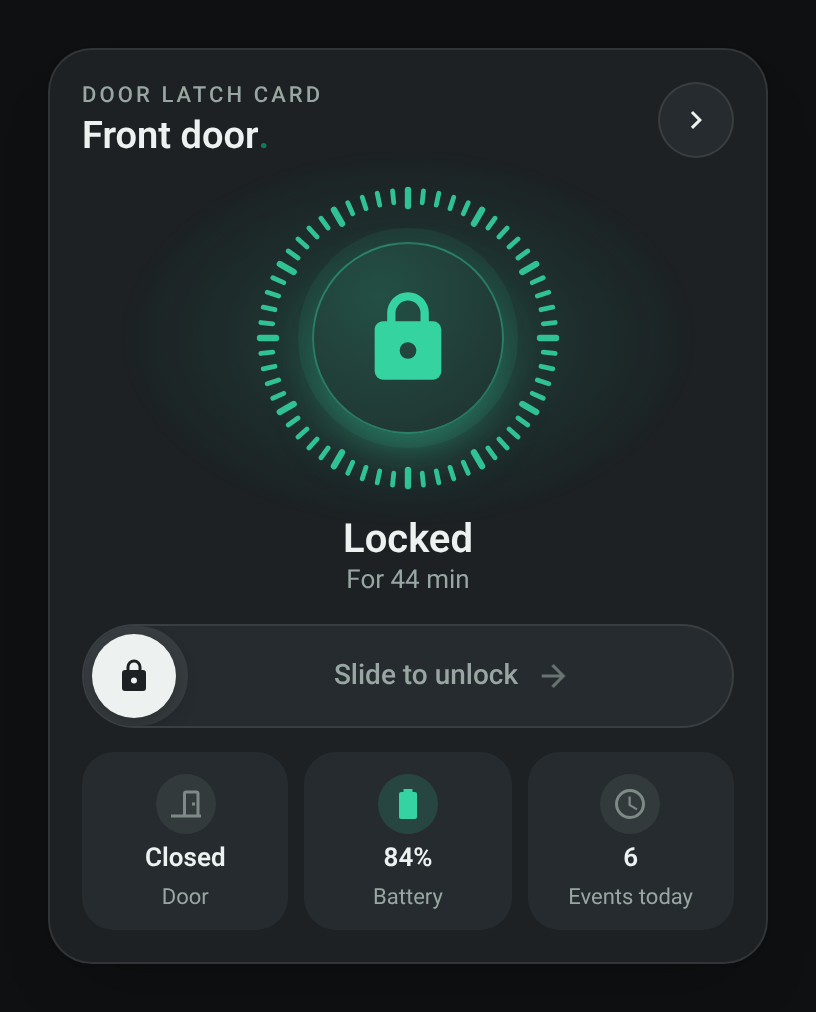
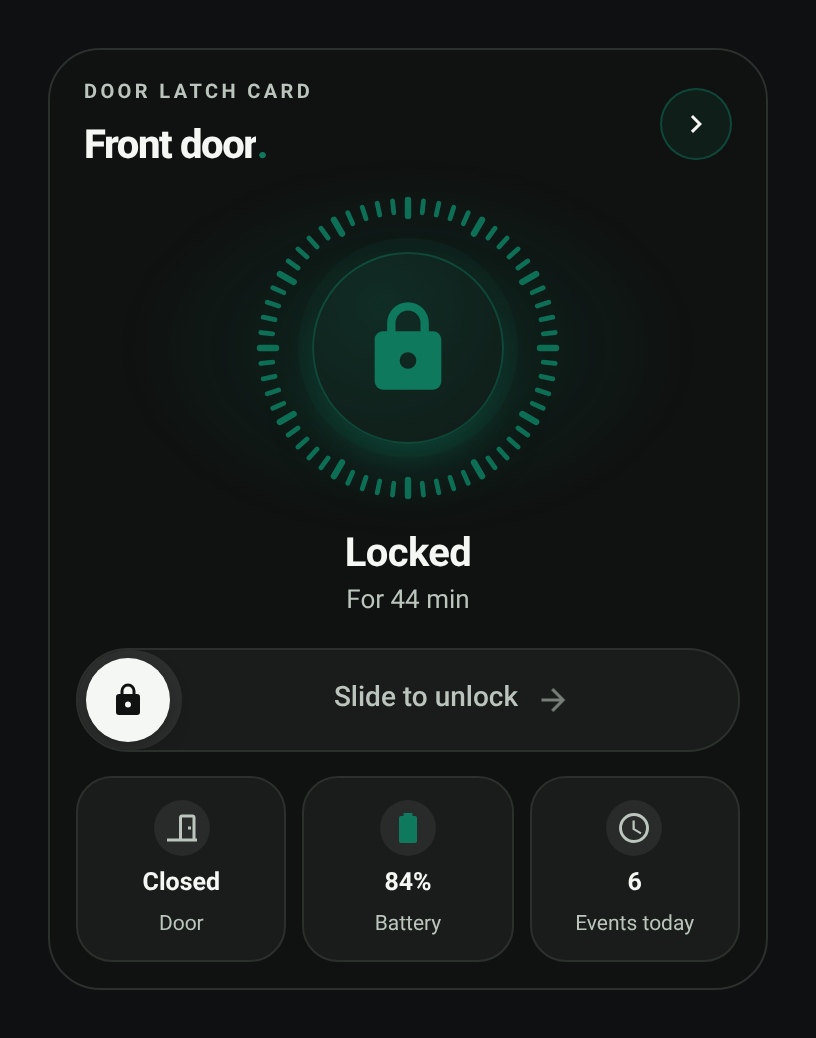
Align Door Latch Card styling with the Edera family

diff --git a/dist/door-latch-card.js b/dist/door-latch-card.js
@@ -548,26 +548,22 @@
   }
 
   /* ---------------------------------------------------------------- styles */
-  const CARD_CSS = `:host{display:block;--font:var(--ha-font-family-body,Roboto,system-ui,-apple-system,"Segoe UI",sans-serif)}
+  const CARD_CSS = `:host{display:block;--font:var(--ha-font-family-body,Roboto,Arial,sans-serif)}
 *{box-sizing:border-box}
 button{font:inherit}
-.hc{
-  --s:#ffffff;--s2:#f2f5f3;--t:#16211d;--t2:#5d6d66;--ln:rgba(22,33,29,.10);
-  --ok:#0f9f74;--wr:#d4900a;--er:#d23f3f;--nt:#8b9892;--dotc:#0a7156;
-  width:100%;max-width:400px;margin:0 auto;background:var(--s);color:var(--t);border:1px solid var(--ln);border-radius:22px;padding:16px;
-  font-family:var(--font);box-shadow:0 1px 2px rgba(0,0,0,.05),0 18px 36px -16px rgba(0,0,0,.28);min-width:0;
-}
-.hc.dark,.ov.dark,.sh.dark{--dotc:#0e795d;--s:#1d2124;--s2:#262b2f;--t:#edf2f0;--t2:#98a7a1;--ln:rgba(255,255,255,.09);--ok:#34d3a0;--wr:#f0b429;--er:#ff6b6b;--nt:#7d8a85}
-.ov.light,.sh.light{--dotc:#0a7156;--s:#ffffff;--s2:#f2f5f3;--t:#16211d;--t2:#5d6d66;--ln:rgba(22,33,29,.10);--ok:#0f9f74;--wr:#d4900a;--er:#d23f3f;--nt:#8b9892}
-.c-ok{--c:var(--ok)}.c-wr{--c:var(--wr)}.c-er{--c:var(--er)}.c-nt{--c:var(--nt)}
+.hc,.ov.light,.sh.light{--s:#fafbf9;--s2:#f0f2ef;--cir:#ffffff;--t:#18221c;--t2:#56675c;--ln:#e0e5df;
+  --ok:#0a7156;--okx:#0a7156;--wr:#d3bd63;--wrx:#5f4a10;--wrb:#f9f3de;--er:#b83a42;--erx:#ae4742;--nt:#858E89;--ntx:#56675c;--dotc:#0a7156;--btn:#0a7156}
+.hc.dark,.ov.dark,.sh.dark{--s:#101211;--s2:#191c1a;--cir:#282b29;--t:#f5f7f4;--t2:#bbc5bd;--ln:#2b302c;--ok:#0e795d;--okx:#0e795d;--wr:#816e31;--wrx:#f1d78b;--wrb:#302b1b;--er:#b83a42;--erx:#e85e64;--nt:#8B918E;--ntx:#bbc5bd;--dotc:#0e795d;--btn:#f5f7f4}
+.hc{width:100%;max-width:400px;margin:0 auto;background:var(--s);color:var(--t);border:1px solid var(--ln);border-radius:26px;padding:13px;font-family:var(--font);font-size:var(--ha-font-size-m,14px);line-height:1.4;min-width:0}
+.c-ok{--c:var(--ok);--cx:var(--okx)}.c-wr{--c:var(--wr);--cx:var(--wrx)}.c-er{--c:var(--er);--cx:var(--erx)}.c-nt{--c:var(--nt);--cx:var(--ntx)}
 .hc svg.i{width:18px;height:18px;fill:currentColor;stroke:none;flex:none;display:block}
-.hd{display:flex;align-items:center;justify-content:space-between;gap:12px}
+.hd{display:flex;align-items:center;justify-content:space-between;gap:12px;margin:2px 4px 0}
 .hd>div{min-width:0}
-.eb{font-size:11px;letter-spacing:.14em;text-transform:uppercase;color:var(--t2);font-weight:500}
-.ti{display:flex;align-items:baseline;gap:0;font-size:19px;font-weight:600;margin-top:2px;min-width:0}
+.eb{font-size:10px;letter-spacing:1.7px;text-transform:uppercase;color:var(--t2);font-weight:750;margin-bottom:7px;overflow-wrap:anywhere}
+.ti{display:flex;align-items:baseline;gap:0;font-size:20px;line-height:1.14;font-weight:800;letter-spacing:-.7px;min-width:0}
 .ti span.tx{overflow:hidden;text-overflow:ellipsis;white-space:nowrap}
 .dp{color:var(--dotc);flex:none;font-weight:inherit}
-.rb{width:38px;height:38px;border-radius:50%;border:1px solid var(--ln);background:var(--s2);color:var(--t);display:grid;place-items:center;cursor:pointer;flex:none;padding:0;-webkit-tap-highlight-color:transparent}
+.rb{width:36px;height:36px;border-radius:50%;border:1px solid color-mix(in srgb,var(--ok) 45%,transparent);background:color-mix(in srgb,var(--ok) 12%,transparent);color:var(--btn);display:grid;place-items:center;cursor:pointer;flex:none;padding:0;-webkit-tap-highlight-color:transparent}
 .hero{display:grid;place-items:center;margin:12px 0 4px;position:relative;isolation:isolate}
 .hero::before{content:"";position:absolute;left:50%;top:-17px;width:290px;height:190px;margin-left:-145px;z-index:-1;pointer-events:none;
   background:radial-gradient(closest-side,color-mix(in srgb,var(--c) 26%,transparent),color-mix(in srgb,var(--c) 8%,transparent) 62%,transparent);animation:breathe 4.8s ease-in-out infinite}
@@ -578,13 +574,14 @@ button{font:inherit}
 .dial>svg.tks{position:absolute;inset:0;width:156px;height:156px}
 .okr{position:absolute;left:0;top:0;width:156px;height:156px;transform:rotate(-90deg);pointer-events:none}
 .okr circle{fill:none;stroke:var(--c);stroke-width:3;stroke-linecap:round;stroke-dasharray:1;stroke-dashoffset:1;animation:ring 1.5s ease-out forwards}
-.okb{position:absolute;right:4px;top:4px;width:30px;height:30px;border-radius:50%;background:var(--c);color:var(--s);display:grid;place-items:center;opacity:0;
+.okb{position:absolute;right:4px;top:4px;width:30px;height:30px;border-radius:50%;background:var(--c);color:#fff;display:grid;place-items:center;opacity:0;
   box-shadow:0 6px 14px -4px color-mix(in srgb,var(--c) 70%,transparent);animation:badge 1.7s cubic-bezier(.3,1.5,.5,1) forwards;pointer-events:none}
 .okb svg.i{width:20px;height:20px}
 .fx-ok .knob{animation:pop .7s ease-out}
 .fx-err .knob{animation:errshake .6s ease-in-out}
 .fx-err .okr circle{stroke:var(--er)}
-.fx-err .okb{background:var(--er)}
+.fx-err .okb{background:var(--er)!important;color:#fff!important}
+.c-wr .okb{color:var(--wrx);background:var(--wrb);box-shadow:inset 0 0 0 1.5px var(--wr)}
 @keyframes ring{0%{stroke-dashoffset:1;opacity:1}55%{stroke-dashoffset:0;opacity:1}100%{stroke-dashoffset:0;opacity:0}}
 @keyframes badge{0%{transform:scale(.3);opacity:0}18%{transform:scale(1);opacity:1}75%{transform:scale(1);opacity:1}100%{transform:scale(1);opacity:0}}
 @keyframes pop{0%{transform:scale(1)}35%{transform:scale(1.07)}100%{transform:scale(1)}}
@@ -601,15 +598,15 @@ button{font:inherit}
   background:radial-gradient(circle at 35% 28%,color-mix(in srgb,var(--c) 26%,var(--s)),color-mix(in srgb,var(--c) 9%,var(--s)));
   border:1px solid color-mix(in srgb,var(--c) 42%,transparent);
   box-shadow:0 0 0 7px color-mix(in srgb,var(--c) 8%,transparent),0 14px 30px -10px color-mix(in srgb,var(--c) 55%,transparent)}
-.knob svg{grid-area:1/1;width:50px;height:50px;display:block;fill:var(--c);transition:opacity .35s ease,transform .55s cubic-bezier(.3,1.4,.5,1)}
+.knob svg{grid-area:1/1;width:50px;height:50px;display:block;fill:var(--cx);transition:opacity .35s ease,transform .55s cubic-bezier(.3,1.4,.5,1)}
 .knob .ko{opacity:0;transform:scale(.55) rotate(14deg)}
 .opn .knob .kc{opacity:0;transform:scale(.55) rotate(-14deg)}
 .opn .knob .ko{opacity:1;transform:none}
 .st-jammed .knob{animation:shake 1.6s ease-in-out infinite}
 @keyframes shake{0%,70%,100%{transform:none}76%{transform:translateX(-2px)}82%{transform:translateX(2px)}88%{transform:translateX(-1px)}}
-.hl{font-size:20px;font-weight:600;text-align:center;margin-top:10px;text-wrap:balance}
+.hl{font-size:20px;font-weight:700;letter-spacing:-.3px;text-align:center;margin-top:10px;text-wrap:balance}
 .sb{font-size:13px;color:var(--t2);text-align:center;margin-top:2px}
-.sb.er{color:var(--er);font-weight:500}
+.sb.er{color:var(--erx);font-weight:500}
 .sl{position:relative;height:52px;border-radius:26px;background:var(--s2);border:1px solid var(--ln);overflow:hidden;margin-top:14px;user-select:none;-webkit-user-select:none;touch-action:pan-y}
 .sl .fl{position:absolute;left:0;top:0;bottom:0;width:52px;background:color-mix(in srgb,var(--t) 9%,transparent);border-radius:26px}
 .sl .lb{position:absolute;inset:0;display:flex;align-items:center;justify-content:center;gap:8px;padding-left:44px;font-size:14px;font-weight:500;color:var(--t2);pointer-events:none}
@@ -623,13 +620,15 @@ button{font:inherit}
 .sl.dis .hdl{display:none}
 .sl.dis .fl{display:none}
 .bt{display:flex;align-items:center;justify-content:center;gap:8px;width:100%;min-height:52px;margin-top:14px;border-radius:26px;font:inherit;font-size:15px;font-weight:600;cursor:pointer;
-  border:1px solid color-mix(in srgb,var(--c) 55%,transparent);background:color-mix(in srgb,var(--c) 14%,transparent);color:var(--t);-webkit-tap-highlight-color:transparent}
-.bt svg.i{color:var(--c)}
+  border:1px solid var(--wr);background:var(--wrb);color:var(--wrx);-webkit-tap-highlight-color:transparent}
+.bt svg.i{color:var(--wrx)}
 .tl{display:grid;grid-template-columns:repeat(3,minmax(0,1fr));gap:8px;margin-top:12px}
-.t{background:var(--s2);border-radius:16px;padding:11px 6px 10px;display:flex;flex-direction:column;align-items:center;gap:5px;min-width:0;text-align:center}
-.t .ic{width:30px;height:30px;border-radius:50%;display:grid;place-items:center;background:color-mix(in srgb,var(--c) 16%,transparent);color:var(--c)}
-.t b{font-size:13px;font-weight:600;max-width:100%;overflow:hidden;text-overflow:ellipsis;white-space:nowrap}
-.t span{font-size:11px;color:var(--t2)}
+.t{background:var(--s2);border:1px solid var(--ln);border-radius:18px;padding:11px 6px 10px;display:flex;flex-direction:column;align-items:center;gap:5px;min-width:0;text-align:center}
+.t .ic{width:28px;height:28px;border-radius:50%;display:grid;place-items:center;background:var(--cir);color:var(--cx)}
+.t.c-wr .ic{background:var(--wrb);box-shadow:inset 0 0 0 1px var(--wr);color:var(--wrx)}
+.t.c-er .ic{background:var(--er);color:#fff}
+.t b{font-size:12.5px;font-weight:700;max-width:100%;overflow:hidden;text-overflow:ellipsis;white-space:nowrap}
+.t span{font-size:10.5px;color:var(--t2)}
 
 /* ============ POPUP (standard v1.4, par. 7) ============ */
 .ov{position:fixed;inset:0;z-index:50;display:none;place-items:center;padding:16px;background:rgba(8,12,10,.58);backdrop-filter:blur(3px);font-family:var(--font)}
@@ -646,11 +645,11 @@ button{font:inherit}
 .g{background:var(--s2);border-radius:18px;padding:12px 14px 4px;min-width:0}
 .gh{display:flex;align-items:center;justify-content:space-between;gap:8px;margin-bottom:4px}
 .gh em{font-style:normal;font-size:11px;letter-spacing:.14em;text-transform:uppercase;color:var(--t2);font-weight:500}
-.pill{padding:3px 10px;border-radius:999px;font-size:12px;font-weight:500;white-space:nowrap;color:var(--c);
-  background:color-mix(in srgb,var(--c) 15%,transparent);border:1px solid color-mix(in srgb,var(--c) 36%,transparent)}
+.pill{padding:3px 10px;border-radius:999px;font-size:12px;font-weight:500;white-space:nowrap;color:var(--cx);
+  background:color-mix(in srgb,var(--c) 15%,transparent);border:1px solid color-mix(in srgb,var(--c) 40%,transparent)}
 .r{display:flex;align-items:center;gap:10px;padding:9px 0;border-top:1px solid var(--ln);min-width:0}
 .r:first-of-type{border-top:0}
-.r .ic{width:30px;height:30px;border-radius:50%;display:grid;place-items:center;flex:none;background:var(--s);color:var(--t2);border:1px solid var(--ln)}
+.r .ic{width:30px;height:30px;border-radius:50%;display:grid;place-items:center;flex:none;background:var(--cir);color:var(--t2);border:1px solid var(--ln)}
 .r .ic svg{width:18px;height:18px;fill:currentColor;stroke:none;display:block}
 .r .nm{flex:1;min-width:0;font-size:14px;overflow-wrap:anywhere}
 .r .nm small{display:block;font-size:12px;color:var(--t2)}
@@ -678,7 +677,7 @@ button{font:inherit}
 .klbl{margin:0 4px 8px;color:var(--t2);font-size:10px;letter-spacing:1.3px;font-weight:600;text-transform:uppercase;text-align:center}
 .dotrow{display:flex;justify-content:center;align-items:center;min-height:28px;margin-bottom:4px}
 .dts{display:flex;gap:12px;justify-content:center;min-height:14px}.dts i{width:12px;height:12px;border-radius:50%;border:1.5px solid var(--t2)}.dts i.f{background:var(--t);border-color:var(--t)}
-.err{text-align:center;color:var(--er);font-size:12.5px;font-weight:600;min-height:18px;margin:2px 0 6px}
+.err{text-align:center;color:var(--erx);font-size:12.5px;font-weight:600;min-height:18px;margin:2px 0 6px}
 .keys{display:grid;grid-template-columns:repeat(3,72px);gap:10px;justify-content:center;margin:4px 0 14px}
 .keys button{width:72px;height:56px;border-radius:18px;border:1px solid var(--ln);background:var(--s2);padding:0;display:flex;align-items:center;justify-content:center;line-height:1;color:var(--t);cursor:pointer;font:inherit;-webkit-tap-highlight-color:transparent}
 .keys button:active{background:var(--ln)}

diff --git a/src/door-latch-card.js b/src/door-latch-card.js
@@ -548,26 +548,22 @@
   }
 
   /* ---------------------------------------------------------------- styles */
-  const CARD_CSS = `:host{display:block;--font:var(--ha-font-family-body,Roboto,system-ui,-apple-system,"Segoe UI",sans-serif)}
+  const CARD_CSS = `:host{display:block;--font:var(--ha-font-family-body,Roboto,Arial,sans-serif)}
 *{box-sizing:border-box}
 button{font:inherit}
-.hc{
-  --s:#ffffff;--s2:#f2f5f3;--t:#16211d;--t2:#5d6d66;--ln:rgba(22,33,29,.10);
-  --ok:#0f9f74;--wr:#d4900a;--er:#d23f3f;--nt:#8b9892;--dotc:#0a7156;
-  width:100%;max-width:400px;margin:0 auto;background:var(--s);color:var(--t);border:1px solid var(--ln);border-radius:22px;padding:16px;
-  font-family:var(--font);box-shadow:0 1px 2px rgba(0,0,0,.05),0 18px 36px -16px rgba(0,0,0,.28);min-width:0;
-}
-.hc.dark,.ov.dark,.sh.dark{--dotc:#0e795d;--s:#1d2124;--s2:#262b2f;--t:#edf2f0;--t2:#98a7a1;--ln:rgba(255,255,255,.09);--ok:#34d3a0;--wr:#f0b429;--er:#ff6b6b;--nt:#7d8a85}
-.ov.light,.sh.light{--dotc:#0a7156;--s:#ffffff;--s2:#f2f5f3;--t:#16211d;--t2:#5d6d66;--ln:rgba(22,33,29,.10);--ok:#0f9f74;--wr:#d4900a;--er:#d23f3f;--nt:#8b9892}
-.c-ok{--c:var(--ok)}.c-wr{--c:var(--wr)}.c-er{--c:var(--er)}.c-nt{--c:var(--nt)}
+.hc,.ov.light,.sh.light{--s:#fafbf9;--s2:#f0f2ef;--cir:#ffffff;--t:#18221c;--t2:#56675c;--ln:#e0e5df;
+  --ok:#0a7156;--okx:#0a7156;--wr:#d3bd63;--wrx:#5f4a10;--wrb:#f9f3de;--er:#b83a42;--erx:#ae4742;--nt:#858E89;--ntx:#56675c;--dotc:#0a7156;--btn:#0a7156}
+.hc.dark,.ov.dark,.sh.dark{--s:#101211;--s2:#191c1a;--cir:#282b29;--t:#f5f7f4;--t2:#bbc5bd;--ln:#2b302c;--ok:#0e795d;--okx:#0e795d;--wr:#816e31;--wrx:#f1d78b;--wrb:#302b1b;--er:#b83a42;--erx:#e85e64;--nt:#8B918E;--ntx:#bbc5bd;--dotc:#0e795d;--btn:#f5f7f4}
+.hc{width:100%;max-width:400px;margin:0 auto;background:var(--s);color:var(--t);border:1px solid var(--ln);border-radius:26px;padding:13px;font-family:var(--font);font-size:var(--ha-font-size-m,14px);line-height:1.4;min-width:0}
+.c-ok{--c:var(--ok);--cx:var(--okx)}.c-wr{--c:var(--wr);--cx:var(--wrx)}.c-er{--c:var(--er);--cx:var(--erx)}.c-nt{--c:var(--nt);--cx:var(--ntx)}
 .hc svg.i{width:18px;height:18px;fill:currentColor;stroke:none;flex:none;display:block}
-.hd{display:flex;align-items:center;justify-content:space-between;gap:12px}
+.hd{display:flex;align-items:center;justify-content:space-between;gap:12px;margin:2px 4px 0}
 .hd>div{min-width:0}
-.eb{font-size:11px;letter-spacing:.14em;text-transform:uppercase;color:var(--t2);font-weight:500}
-.ti{display:flex;align-items:baseline;gap:0;font-size:19px;font-weight:600;margin-top:2px;min-width:0}
+.eb{font-size:10px;letter-spacing:1.7px;text-transform:uppercase;color:var(--t2);font-weight:750;margin-bottom:7px;overflow-wrap:anywhere}
+.ti{display:flex;align-items:baseline;gap:0;font-size:20px;line-height:1.14;font-weight:800;letter-spacing:-.7px;min-width:0}
 .ti span.tx{overflow:hidden;text-overflow:ellipsis;white-space:nowrap}
 .dp{color:var(--dotc);flex:none;font-weight:inherit}
-.rb{width:38px;height:38px;border-radius:50%;border:1px solid var(--ln);background:var(--s2);color:var(--t);display:grid;place-items:center;cursor:pointer;flex:none;padding:0;-webkit-tap-highlight-color:transparent}
+.rb{width:36px;height:36px;border-radius:50%;border:1px solid color-mix(in srgb,var(--ok) 45%,transparent);background:color-mix(in srgb,var(--ok) 12%,transparent);color:var(--btn);display:grid;place-items:center;cursor:pointer;flex:none;padding:0;-webkit-tap-highlight-color:transparent}
 .hero{display:grid;place-items:center;margin:12px 0 4px;position:relative;isolation:isolate}
 .hero::before{content:"";position:absolute;left:50%;top:-17px;width:290px;height:190px;margin-left:-145px;z-index:-1;pointer-events:none;
   background:radial-gradient(closest-side,color-mix(in srgb,var(--c) 26%,transparent),color-mix(in srgb,var(--c) 8%,transparent) 62%,transparent);animation:breathe 4.8s ease-in-out infinite}
@@ -578,13 +574,14 @@ button{font:inherit}
 .dial>svg.tks{position:absolute;inset:0;width:156px;height:156px}
 .okr{position:absolute;left:0;top:0;width:156px;height:156px;transform:rotate(-90deg);pointer-events:none}
 .okr circle{fill:none;stroke:var(--c);stroke-width:3;stroke-linecap:round;stroke-dasharray:1;stroke-dashoffset:1;animation:ring 1.5s ease-out forwards}
-.okb{position:absolute;right:4px;top:4px;width:30px;height:30px;border-radius:50%;background:var(--c);color:var(--s);display:grid;place-items:center;opacity:0;
+.okb{position:absolute;right:4px;top:4px;width:30px;height:30px;border-radius:50%;background:var(--c);color:#fff;display:grid;place-items:center;opacity:0;
   box-shadow:0 6px 14px -4px color-mix(in srgb,var(--c) 70%,transparent);animation:badge 1.7s cubic-bezier(.3,1.5,.5,1) forwards;pointer-events:none}
 .okb svg.i{width:20px;height:20px}
 .fx-ok .knob{animation:pop .7s ease-out}
 .fx-err .knob{animation:errshake .6s ease-in-out}
 .fx-err .okr circle{stroke:var(--er)}
-.fx-err .okb{background:var(--er)}
+.fx-err .okb{background:var(--er)!important;color:#fff!important}
+.c-wr .okb{color:var(--wrx);background:var(--wrb);box-shadow:inset 0 0 0 1.5px var(--wr)}
 @keyframes ring{0%{stroke-dashoffset:1;opacity:1}55%{stroke-dashoffset:0;opacity:1}100%{stroke-dashoffset:0;opacity:0}}
 @keyframes badge{0%{transform:scale(.3);opacity:0}18%{transform:scale(1);opacity:1}75%{transform:scale(1);opacity:1}100%{transform:scale(1);opacity:0}}
 @keyframes pop{0%{transform:scale(1)}35%{transform:scale(1.07)}100%{transform:scale(1)}}
@@ -601,15 +598,15 @@ button{font:inherit}
   background:radial-gradient(circle at 35% 28%,color-mix(in srgb,var(--c) 26%,var(--s)),color-mix(in srgb,var(--c) 9%,var(--s)));
   border:1px solid color-mix(in srgb,var(--c) 42%,transparent);
   box-shadow:0 0 0 7px color-mix(in srgb,var(--c) 8%,transparent),0 14px 30px -10px color-mix(in srgb,var(--c) 55%,transparent)}
-.knob svg{grid-area:1/1;width:50px;height:50px;display:block;fill:var(--c);transition:opacity .35s ease,transform .55s cubic-bezier(.3,1.4,.5,1)}
+.knob svg{grid-area:1/1;width:50px;height:50px;display:block;fill:var(--cx);transition:opacity .35s ease,transform .55s cubic-bezier(.3,1.4,.5,1)}
 .knob .ko{opacity:0;transform:scale(.55) rotate(14deg)}
 .opn .knob .kc{opacity:0;transform:scale(.55) rotate(-14deg)}
 .opn .knob .ko{opacity:1;transform:none}
 .st-jammed .knob{animation:shake 1.6s ease-in-out infinite}
 @keyframes shake{0%,70%,100%{transform:none}76%{transform:translateX(-2px)}82%{transform:translateX(2px)}88%{transform:translateX(-1px)}}
-.hl{font-size:20px;font-weight:600;text-align:center;margin-top:10px;text-wrap:balance}
+.hl{font-size:20px;font-weight:700;letter-spacing:-.3px;text-align:center;margin-top:10px;text-wrap:balance}
 .sb{font-size:13px;color:var(--t2);text-align:center;margin-top:2px}
-.sb.er{color:var(--er);font-weight:500}
+.sb.er{color:var(--erx);font-weight:500}
 .sl{position:relative;height:52px;border-radius:26px;background:var(--s2);border:1px solid var(--ln);overflow:hidden;margin-top:14px;user-select:none;-webkit-user-select:none;touch-action:pan-y}
 .sl .fl{position:absolute;left:0;top:0;bottom:0;width:52px;background:color-mix(in srgb,var(--t) 9%,transparent);border-radius:26px}
 .sl .lb{position:absolute;inset:0;display:flex;align-items:center;justify-content:center;gap:8px;padding-left:44px;font-size:14px;font-weight:500;color:var(--t2);pointer-events:none}
@@ -623,13 +620,15 @@ button{font:inherit}
 .sl.dis .hdl{display:none}
 .sl.dis .fl{display:none}
 .bt{display:flex;align-items:center;justify-content:center;gap:8px;width:100%;min-height:52px;margin-top:14px;border-radius:26px;font:inherit;font-size:15px;font-weight:600;cursor:pointer;
-  border:1px solid color-mix(in srgb,var(--c) 55%,transparent);background:color-mix(in srgb,var(--c) 14%,transparent);color:var(--t);-webkit-tap-highlight-color:transparent}
-.bt svg.i{color:var(--c)}
+  border:1px solid var(--wr);background:var(--wrb);color:var(--wrx);-webkit-tap-highlight-color:transparent}
+.bt svg.i{color:var(--wrx)}
 .tl{display:grid;grid-template-columns:repeat(3,minmax(0,1fr));gap:8px;margin-top:12px}
-.t{background:var(--s2);border-radius:16px;padding:11px 6px 10px;display:flex;flex-direction:column;align-items:center;gap:5px;min-width:0;text-align:center}
-.t .ic{width:30px;height:30px;border-radius:50%;display:grid;place-items:center;background:color-mix(in srgb,var(--c) 16%,transparent);color:var(--c)}
-.t b{font-size:13px;font-weight:600;max-width:100%;overflow:hidden;text-overflow:ellipsis;white-space:nowrap}
-.t span{font-size:11px;color:var(--t2)}
+.t{background:var(--s2);border:1px solid var(--ln);border-radius:18px;padding:11px 6px 10px;display:flex;flex-direction:column;align-items:center;gap:5px;min-width:0;text-align:center}
+.t .ic{width:28px;height:28px;border-radius:50%;display:grid;place-items:center;background:var(--cir);color:var(--cx)}
+.t.c-wr .ic{background:var(--wrb);box-shadow:inset 0 0 0 1px var(--wr);color:var(--wrx)}
+.t.c-er .ic{background:var(--er);color:#fff}
+.t b{font-size:12.5px;font-weight:700;max-width:100%;overflow:hidden;text-overflow:ellipsis;white-space:nowrap}
+.t span{font-size:10.5px;color:var(--t2)}
 
 /* ============ POPUP (standard v1.4, par. 7) ============ */
 .ov{position:fixed;inset:0;z-index:50;display:none;place-items:center;padding:16px;background:rgba(8,12,10,.58);backdrop-filter:blur(3px);font-family:var(--font)}
@@ -646,11 +645,11 @@ button{font:inherit}
 .g{background:var(--s2);border-radius:18px;padding:12px 14px 4px;min-width:0}
 .gh{display:flex;align-items:center;justify-content:space-between;gap:8px;margin-bottom:4px}
 .gh em{font-style:normal;font-size:11px;letter-spacing:.14em;text-transform:uppercase;color:var(--t2);font-weight:500}
-.pill{padding:3px 10px;border-radius:999px;font-size:12px;font-weight:500;white-space:nowrap;color:var(--c);
-  background:color-mix(in srgb,var(--c) 15%,transparent);border:1px solid color-mix(in srgb,var(--c) 36%,transparent)}
+.pill{padding:3px 10px;border-radius:999px;font-size:12px;font-weight:500;white-space:nowrap;color:var(--cx);
+  background:color-mix(in srgb,var(--c) 15%,transparent);border:1px solid color-mix(in srgb,var(--c) 40%,transparent)}
 .r{display:flex;align-items:center;gap:10px;padding:9px 0;border-top:1px solid var(--ln);min-width:0}
 .r:first-of-type{border-top:0}
-.r .ic{width:30px;height:30px;border-radius:50%;display:grid;place-items:center;flex:none;background:var(--s);color:var(--t2);border:1px solid var(--ln)}
+.r .ic{width:30px;height:30px;border-radius:50%;display:grid;place-items:center;flex:none;background:var(--cir);color:var(--t2);border:1px solid var(--ln)}
 .r .ic svg{width:18px;height:18px;fill:currentColor;stroke:none;display:block}
 .r .nm{flex:1;min-width:0;font-size:14px;overflow-wrap:anywhere}
 .r .nm small{display:block;font-size:12px;color:var(--t2)}
@@ -678,7 +677,7 @@ button{font:inherit}
 .klbl{margin:0 4px 8px;color:var(--t2);font-size:10px;letter-spacing:1.3px;font-weight:600;text-transform:uppercase;text-align:center}
 .dotrow{display:flex;justify-content:center;align-items:center;min-height:28px;margin-bottom:4px}
 .dts{display:flex;gap:12px;justify-content:center;min-height:14px}.dts i{width:12px;height:12px;border-radius:50%;border:1.5px solid var(--t2)}.dts i.f{background:var(--t);border-color:var(--t)}
-.err{text-align:center;color:var(--er);font-size:12.5px;font-weight:600;min-height:18px;margin:2px 0 6px}
+.err{text-align:center;color:var(--erx);font-size:12.5px;font-weight:600;min-height:18px;margin:2px 0 6px}
 .keys{display:grid;grid-template-columns:repeat(3,72px);gap:10px;justify-content:center;margin:4px 0 14px}
 .keys button{width:72px;height:56px;border-radius:18px;border:1px solid var(--ln);background:var(--s2);padding:0;display:flex;align-items:center;justify-content:center;line-height:1;color:var(--t);cursor:pointer;font:inherit;-webkit-tap-highlight-color:transparent}
 .keys button:active{background:var(--ln)}

diff --git a/README.md b/README.md
@@ -20,11 +20,16 @@ The card works with any lock integration that provides a `lock` entity, and it d
 </p>
 
 <p align="center">
+  <img src="assets/door-latch-unlocked-light.png" alt="Door Latch Card — unlocked state, Edera Light" width="300" />
+  <img src="assets/door-latch-unlocked-dark.png" alt="Door Latch Card — unlocked state, Edera Dark" width="300" />
+</p>
+
+<p align="center">
   <img src="assets/door-latch-popup-light.png" alt="Door Latch Card — details popup, Edera Light" width="300" />
   <img src="assets/door-latch-popup-dark.png" alt="Door Latch Card — details popup, Edera Dark" width="300" />
 </p>
 
-*Door Latch Card in Edera Light and Dark modes, with its details popup. The previews use demonstration values and do not display private installation data.*
+*Door Latch Card in Edera Light and Dark modes, locked and unlocked, with its details popup. The previews use demonstration values and do not display private installation data.*
 
 ## Features
 
